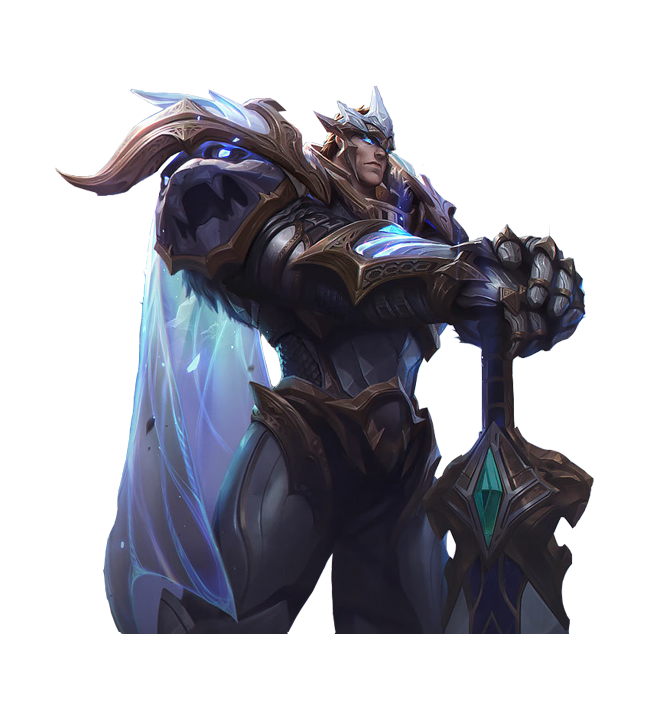
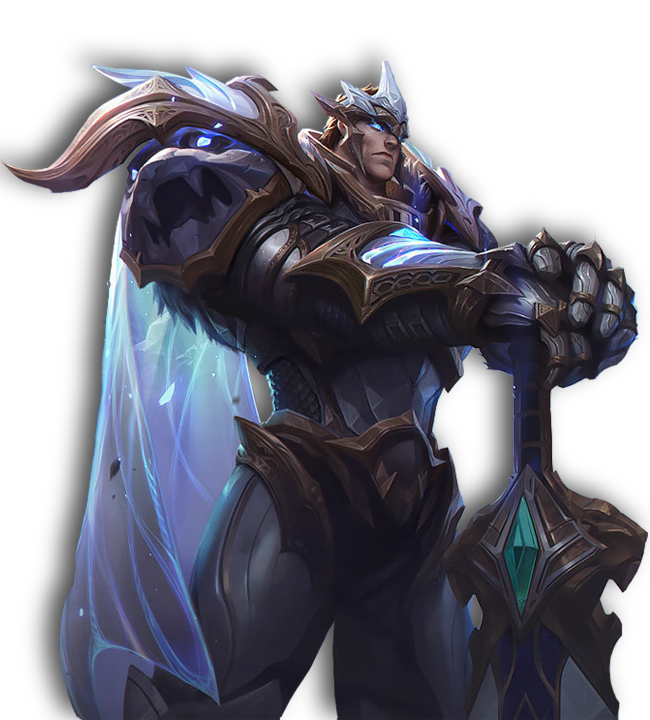
css : home animation 사진 변경 애니메이션

diff --git a/src/components/home/main_home.module.css b/src/components/home/main_home.module.css
@@ -14,17 +14,13 @@
   --header-font-family: "Y_Spotlight";
 }
 
-.rect {
-  height: 700px;
-  width: 700px;
-}
-
 .home {
   display: flex;
   flex-direction: column;
   width: 100%;
   height: 100vh;
   font-size: 16px;
+  background-color: white;
 }
 
 .header {
@@ -66,6 +62,11 @@
   left: 30%;
 }
 
+.rect {
+  height: 700px;
+  width: 1000px;
+}
+
 .upper_circle_container {
   box-sizing: border-box;
   padding: 1em;
@@ -73,18 +74,67 @@
   fill-rule: evenodd;
 }
 
-.home_img1 {
+.home_image_container {
   display: flex;
+  flex-direction: row;
+  align-items: center;
+  width: 100%;
+  height: 40rem;
   position: absolute;
   top: 10%;
-  left: 30%;
+}
+
+.home_img1,
+.home_img2,
+.home_img3 {
+  position: absolute;
+  display: flex;
+  left: 32%;
+  height: 40rem;
   overflow: hidden;
-  animation: slideToRight 1s linear 1;
+  /* animation: slideToRight 1s linear 1;
+  -webkit-transition: -webkit-transform 0.3s 0.2s ease-in-out;
+  -moz-transition: -moz-transform 0.3s 0.2s ease-in-out;
+  -ms-transition: -ms-transform 0.3s 0.2s ease-in-out;
+  -o-transition: -o-transform 0.3s 0.2s ease-in-out;
+  transition: transform 0.3s 0.2s ease-in-out; */
+}
+
+.home_img1 {
+  opacity: 1;
+  display: flex;
+  animation: showImg 4s;
+  animation-delay: 0;
   -webkit-transition: -webkit-transform 0.3s 0.2s ease-in-out;
   -moz-transition: -moz-transform 0.3s 0.2s ease-in-out;
   -ms-transition: -ms-transform 0.3s 0.2s ease-in-out;
   -o-transition: -o-transform 0.3s 0.2s ease-in-out;
   transition: transform 0.3s 0.2s ease-in-out;
+  animation-fill-mode: forwards;
+}
+
+.home_img2 {
+  opacity: 1;
+  animation: showImg 5s;
+  animation-delay: 4s;
+  -webkit-transition: -webkit-transform 0.3s 0.2s ease-in-out;
+  -moz-transition: -moz-transform 0.3s 0.2s ease-in-out;
+  -ms-transition: -ms-transform 0.3s 0.2s ease-in-out;
+  -o-transition: -o-transform 0.3s 0.2s ease-in-out;
+  transition: transform 0.3s 0.2s ease-in-out;
+  animation-fill-mode: both;
+}
+
+.home_img3 {
+  opacity: 1;
+  animation: showImg 5s;
+  animation-delay: 10s;
+  -webkit-transition: -webkit-transform 0.3s 0.2s ease-in-out;
+  -moz-transition: -moz-transform 0.3s 0.2s ease-in-out;
+  -ms-transition: -ms-transform 0.3s 0.2s ease-in-out;
+  -o-transition: -o-transform 0.3s 0.2s ease-in-out;
+  transition: transform 0.3s 0.2s ease-in-out;
+  animation-fill-mode: backwards;
 }
 
 .upper_circle {
@@ -92,14 +142,124 @@
   z-index: 100;
 }
 
+.home_text1 {
+  display: flex;
+  position: absolute;
+  top: 2rem;
+  left: 4rem;
+  animation: text-sliding-right 1s linear 1;
+  z-index: 200;
+}
+
+.home_text2 {
+  display: flex;
+  position: absolute;
+  top: 7rem;
+  right: 15rem;
+  animation: text-sliding-left 1s linear 1;
+  z-index: 200;
+}
+
 @keyframes slideToRight {
+  0% {
+    opacity: 0;
+    transform: translateX(-7%);
+    -webkit-transform: translateX(-7%);
+    -moz-transform: translateX(-7%);
+    -ms-transform: translateX(-7%);
+    -o-transform: translateX(-7%);
+  }
+
+  50% {
+    opacity: 0.5;
+    transform: translateX(0%);
+    -webkit-transform: translateX(0%);
+    -moz-transform: translateX(0%);
+    -ms-transform: translateX(0%);
+    -o-transform: translateX(0%);
+  }
+
+  100% {
+    opacity: 1;
+    transform: translateX(0%);
+    -webkit-transform: translateX(0%);
+    -moz-transform: translateX(0%);
+    -ms-transform: translateX(0%);
+    -o-transform: translateX(0%);
+    display: none;
+  }
+}
+
+@keyframes text-sliding-right {
+  from {
+    transform: translateX(-10%);
+  }
+  to {
+    transform: translateX(0%);
+  }
+}
+
+@keyframes text-sliding-left {
+  from {
+    transform: translateX(10%);
+  }
+  to {
+    transform: translateX(0%);
+  }
+}
+
+/* @keyframes showImg {
+  from {
+    opacity: 1;
+    transform: translateX(-7%);
+    -webkit-transform: translateX(-7%);
+    -moz-transform: translateX(-7%);
+    -ms-transform: translateX(-7%);
+    -o-transform: translateX(-7%);
+  }
+  to {
+    opacity: 0;
+    display: none;
+    transform: translateX(0%);
+    -webkit-transform: translateX(0%);
+    -moz-transform: translateX(0%);
+    -ms-transform: translateX(0%);
+    -o-transform: translateX(0%);
+  }
+} */
+
+@keyframes showImg {
+  0% {
+    opacity: 0;
+    transform: translateX(-7%);
+    -webkit-transform: translateX(-7%);
+    -moz-transform: translateX(-7%);
+    -ms-transform: translateX(-7%);
+    -o-transform: translateX(-7%);
+  }
+
+  50% {
+    opacity: 1;
+    transform: translateX(0%);
+    -webkit-transform: translateX(0%);
+    -moz-transform: translateX(0%);
+    -ms-transform: translateX(0%);
+    -o-transform: translateX(0%);
+  }
+
+  100% {
+    opacity: 0;
+  }
+}
+
+@keyframes stayImg {
   from {
     opacity: 0;
-    transform: translateX(-10%);
-    -webkit-transform: translateX(-10%);
-    -moz-transform: translateX(-10%);
-    -ms-transform: translateX(-10%);
-    -o-transform: translateX(-10%);
+    transform: translateX(-7%);
+    -webkit-transform: translateX(-7%);
+    -moz-transform: translateX(-7%);
+    -ms-transform: translateX(-7%);
+    -o-transform: translateX(-7%);
   }
 
   to {

diff --git a/src/components/home/main_home.jsx b/src/components/home/main_home.jsx
@@ -1,6 +1,10 @@
 import React from "react";
 import styles from "./main_home.module.css";
-import mainImg from "../../image/Garen.png";
+import mainImg1 from "../../image/Garen.png";
+import mainImg2 from "../../image/home_img_2.png";
+import mainImg3 from "../../image/home_img_3.png";
+import textImg1 from "../../image/home_text_1.png";
+import textImg2 from "../../image/home_text_2.png";
 
 const MainHome = (props) => {
   return (
@@ -38,15 +42,19 @@ const MainHome = (props) => {
             cx="350"
             cy="350"
             r="300"
-            fill="#fff"
+            fill="#12005e"
             filter="url(#inset-shadow)"
           />
         </svg>
-        <img src={mainImg} alt="main " className={styles.home_img1} />
+        <div className={styles.home_image_container}>
+          <img src={mainImg3} alt="main " className={styles.home_img3} />
+          <img src={mainImg2} alt="main " className={styles.home_img2} />
+          <img src={mainImg1} alt="main " className={styles.home_img1} />
+        </div>
 
-        <svg className={styles.rect} width="800px" height="1000px">
+        <svg className={styles.rect} width="1000px" height="1000px">
           <path
-            d="M0,0 H1000 V800 H0Z 
+            d="M 0 0 H1000 V800 H0Z 
             M 350 350
 m -300, 0
 a 300,300 0 1,0 600,0
@@ -56,6 +64,8 @@ a 300,300 0 1,0 -600,0
             fill="white"
           />
         </svg>
+        <img src={textImg1} alt="나만의" className={styles.home_text1} />
+        <img src={textImg2} alt="덱을" className={styles.home_text2} />
       </div>
     </div>
   );
